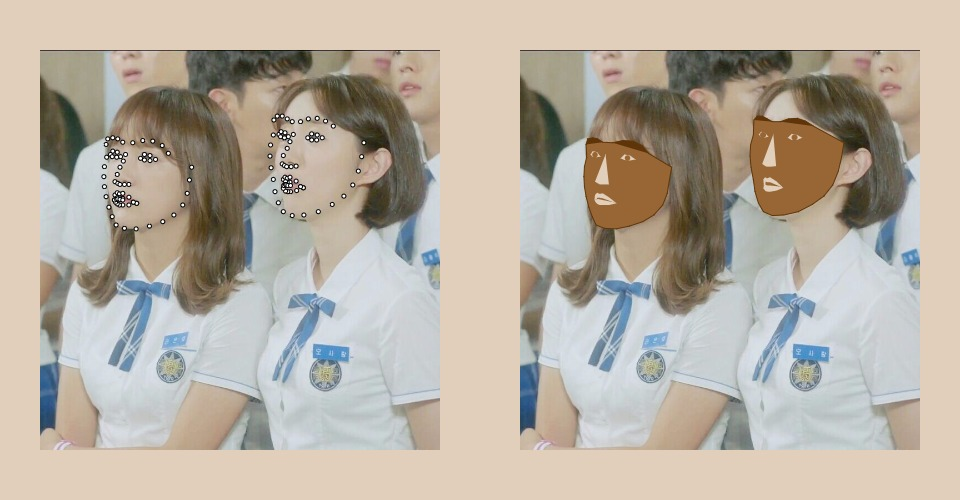
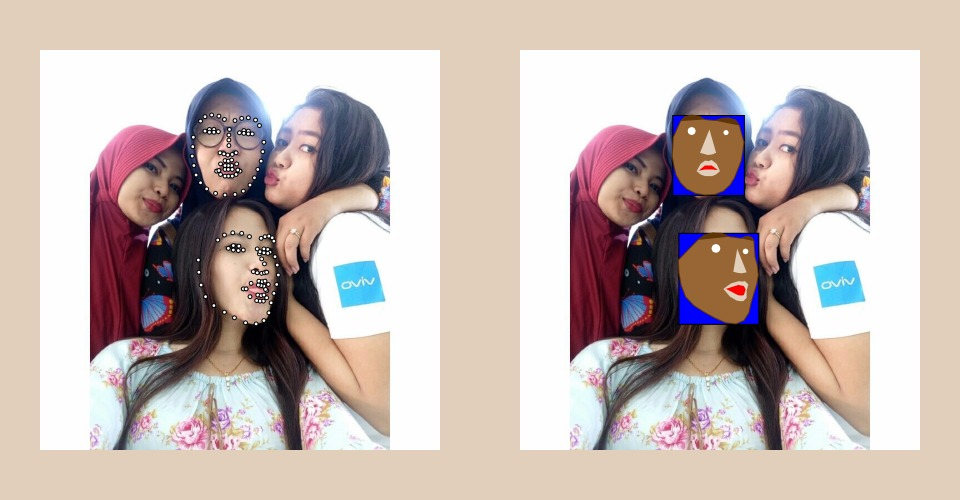
class example

diff --git a/facemap.js b/facemap.js
@@ -16,6 +16,10 @@ function FaceMap() {
    *    bottom_lip, top_lip, nose_tip, nose_bridge, 
    */  
   this.draw = function(positions) {
+    fill(0, 0, 255);
+    var box = bounding_box(positions);
+    rect(box[0], box[1], box[2], box[3]);      
+
     var nose_pos = average_point(positions.nose_bridge);
     var eye1_pos = average_point(positions.left_eye);
     var eye2_pos = average_point(positions.right_eye);
@@ -72,6 +76,27 @@ function FaceMap() {
     }
     endShape(CLOSE);
 
+    fill(255, 0, 0);
+    // print(positions.bottom_lip.length);
+    // for(var i=6; i<positions.bottom_lip.length;i++) {
+    //   ellipse(positions.bottom_lip[i][0], positions.bottom_lip[i][1], 5, 5);
+    // }
+    // fill(0, 255, 0);
+    // print(positions.top_lip.length);
+    // for(var i=6; i<positions.top_lip.length;i++) {
+    //   ellipse(positions.top_lip[i][0], positions.top_lip[i][1], 5, 5);
+    // }
+    beginShape();
+    for(var i=6; i<positions.bottom_lip.length;i++) {
+      vertex(positions.bottom_lip[i][0], positions.bottom_lip[i][1]);
+    }
+    for(var i=6; i<positions.top_lip.length;i++) {
+      vertex(positions.top_lip[i][0], positions.top_lip[i][1]);
+    }
+    endShape(CLOSE);
+    fill(bg_color);
+
+
     // nose
     beginShape();
     vertex(positions.nose_bridge[0][0], positions.nose_bridge[0][1]);
@@ -80,6 +105,7 @@ function FaceMap() {
     }
     endShape(CLOSE);
 
+/*
     // eyes
     beginShape();
     for(var i=0; i<positions.left_eye.length;i++) {
@@ -92,8 +118,9 @@ function FaceMap() {
     }
     endShape(CLOSE);
 
-    fill(fg_color);
-    ellipse(eye1_pos[0], eye1_pos[1], 16 * scale, 16 * scale);
+*/
+    fill(255);
+    ellipse(eye1_pos[0], eye1_pos[1], 25 * scale, 25 * scale);
     ellipse(eye2_pos[0], eye2_pos[1], 16 * scale, 16 * scale);
 
     fill(stroke_color);
@@ -122,4 +149,28 @@ function average_point(list) {
     num_points += 1; 
   }
   return [sum_x / num_points, sum_y / num_points];
+}
+
+function bounding_box(positions) {
+  var xmin=null, xmax=null, ymin=null, ymax=null;
+  for (var key in positions) {
+    var part = positions[key];
+    for (var i=0; i<part.length; i++) {
+      if(xmin == null || xmin < part[i][0]) {
+        xmin = part[i][0];
+      }
+      if(ymin == null || ymin < part[i][1]) {
+        ymin = part[i][1];
+      }
+      if(xmax == null || xmax > part[i][0]) {
+        xmax = part[i][0];
+      }
+      if(ymax == null || ymax > part[i][1]) {
+        ymax = part[i][1];
+      }
+    }
+  }
+
+  // return [x1, y1, x2, y2];
+  return [xmax, ymax, xmin-xmax, ymin-ymax];
 }

diff --git a/face.js b/face.js
@@ -130,8 +130,8 @@ function Face() {
 
   /*
    * Update internal state variables to a random state.
-   */  
-  this.randomize = function(values, size) {
+   */
+  this.randomize = function() {
     this.eye_value = getRandomNumberOfEyes();
     this.tilt_value = focusedRandom(-70, 90, 8);
     this.mouth_value = focusedRandom(0, 50, 4, 1);
